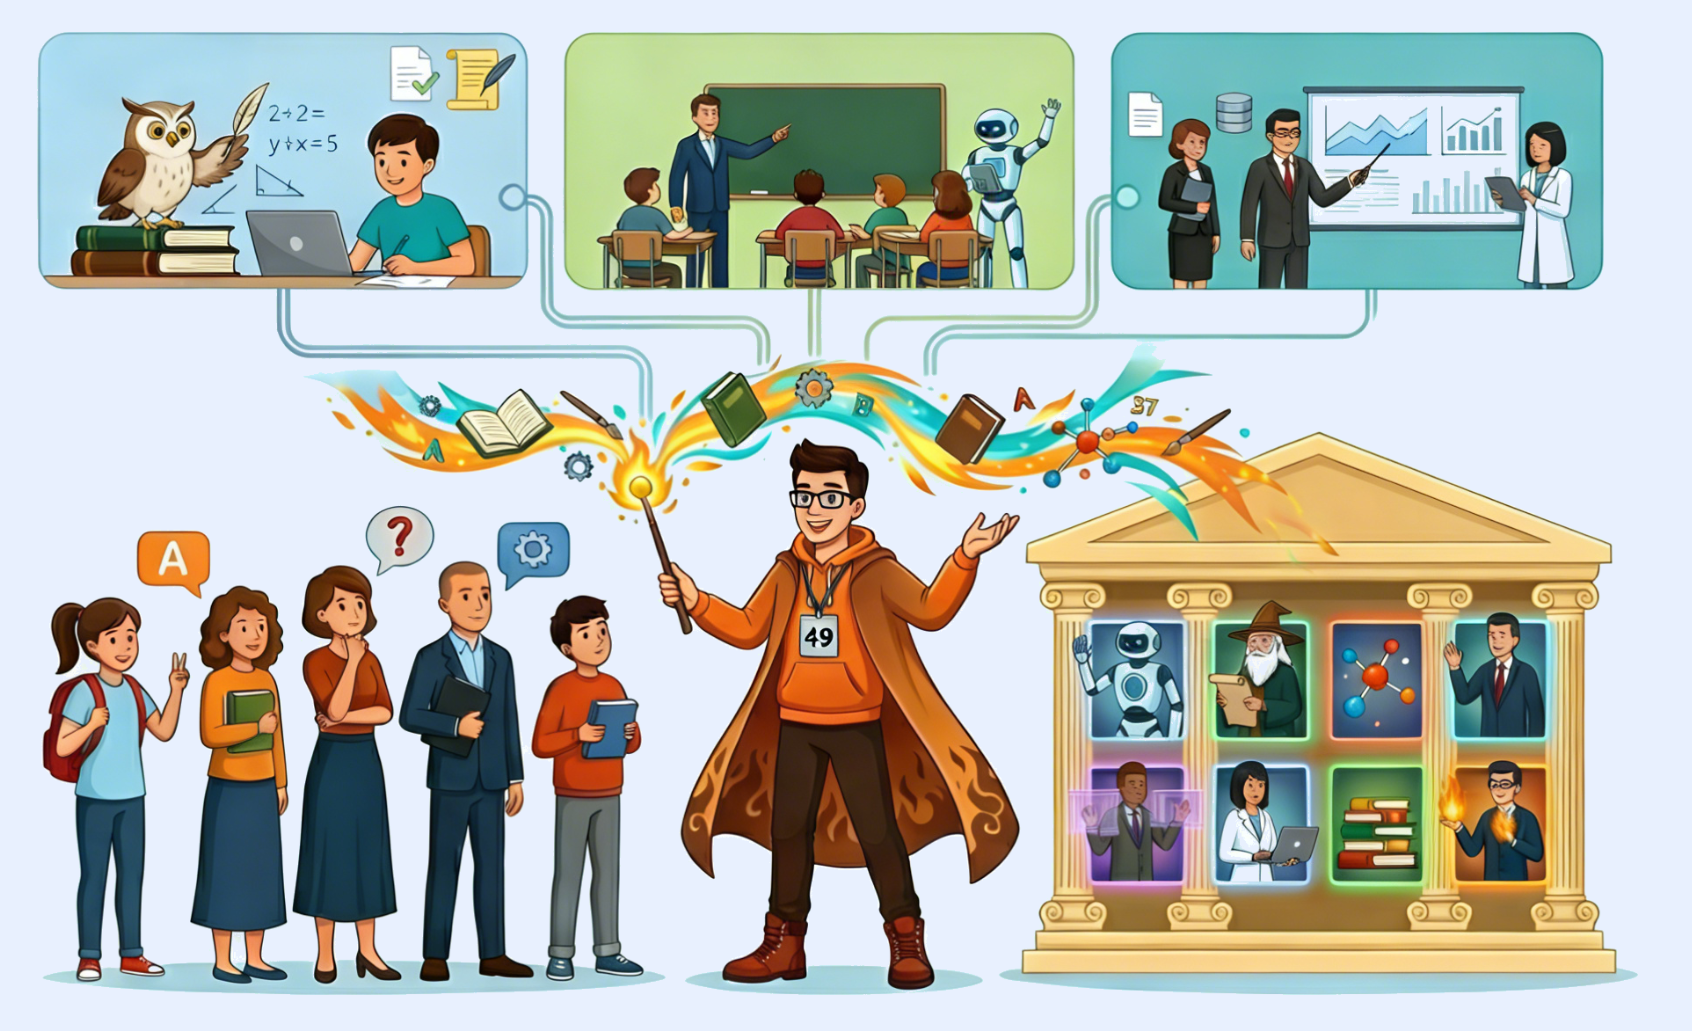
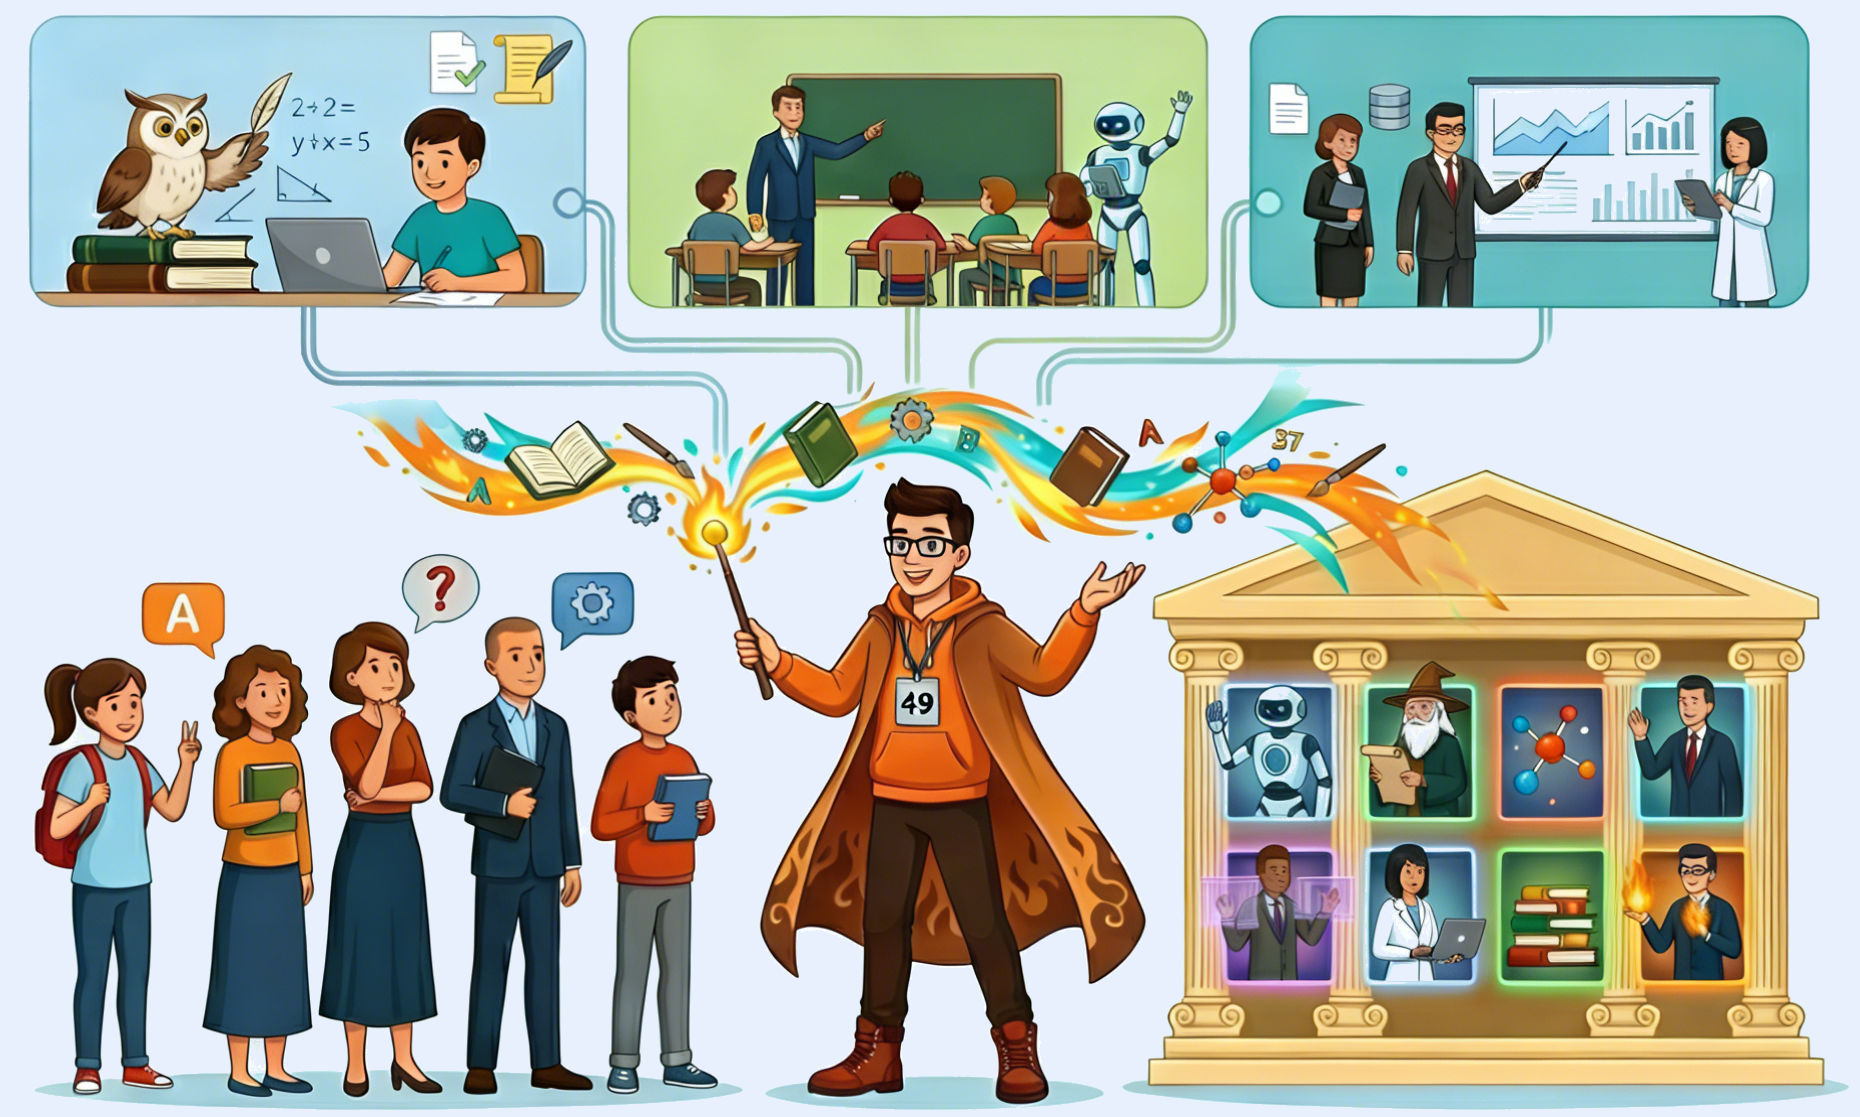
着陆页图片设计

diff --git a/frontend/src/views/LoginView.vue b/frontend/src/views/LoginView.vue
@@ -5,23 +5,23 @@
     >
       <!-- 左栏：书童四九主题插画 -->
       <div
-        class="relative flex min-h-[200px] shrink-0 flex-col items-center justify-center bg-accent-subtle md:min-h-0 md:w-[46%] md:rounded-l-xl md:rounded-r-none rounded-t-xl md:rounded-t-none p-8 md:p-10"
+        class="relative flex min-h-[280px] shrink-0 flex-col items-center justify-center bg-accent-subtle md:min-h-0 md:w-[60%] md:rounded-l-xl md:rounded-r-none rounded-t-xl md:rounded-t-none p-8 md:p-10"
       >
         <div
-          class="pointer-events-none absolute inset-0 bg-gradient-to-b from-accent-subtle/80 to-page/30 md:rounded-l-xl rounded-t-xl md:rounded-t-none"
+          class="pointer-events-none absolute inset-0 bg-gradient-to-b from-accent-subtle/55 to-page/18 md:rounded-l-xl rounded-t-xl md:rounded-t-none"
         />
         <img
           :src="landingImageUrl"
           alt="书童四九"
-          class="relative z-[1] w-full max-w-[min(100%,380px)] select-none drop-shadow-sm"
-          width="480"
-          height="360"
+          class="relative z-[1] w-full max-w-[min(100%,500px)] select-none"
+          width="630"
+          height="490"
           decoding="async"
         />
       </div>
 
       <!-- 右栏：表单 -->
-      <div class="flex flex-1 flex-col justify-center px-8 py-10 md:px-12 md:py-12">
+      <div class="flex flex-col justify-center px-8 py-10 md:w-[40%] md:flex-none md:px-10 md:py-12">
         <div class="mx-auto w-full max-w-sm">
           <div class="mb-8 flex flex-col items-center text-center">
             <div class="mb-4 flex items-center justify-center">
@@ -37,6 +37,9 @@
             <h1 class="mt-5 text-xl font-semibold text-primary">
               书童四九
             </h1>
+            <p class="mt-1 text-sm text-muted">
+              你的AI专家助理
+            </p>
           </div>
 
           <form @submit.prevent="onSubmit()" class="space-y-4">
